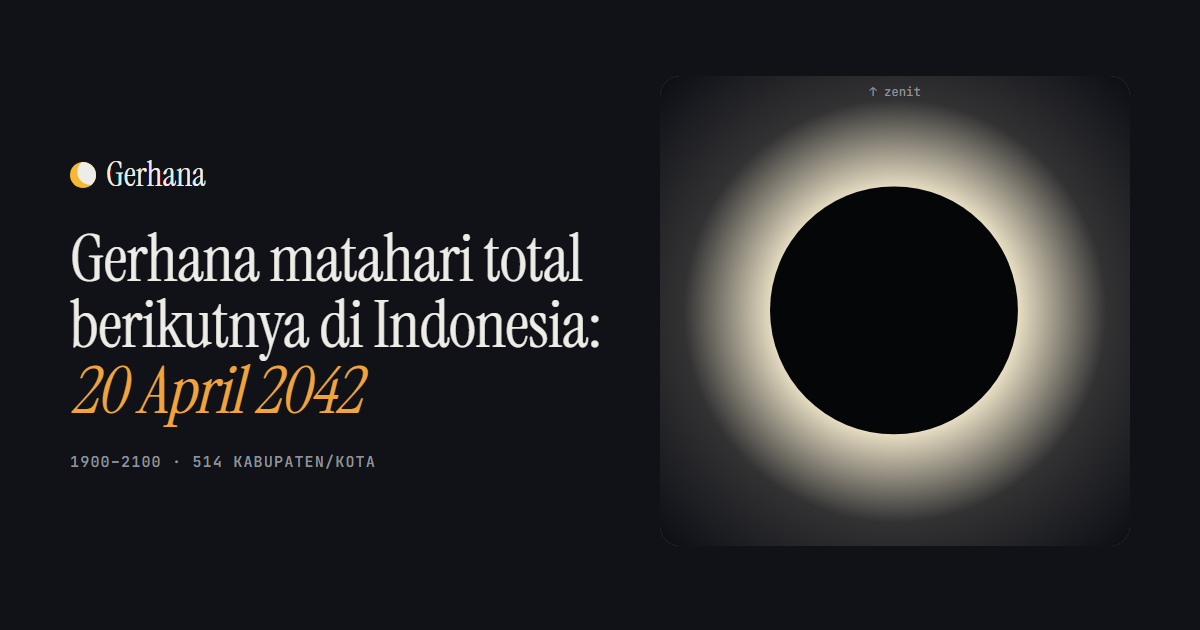
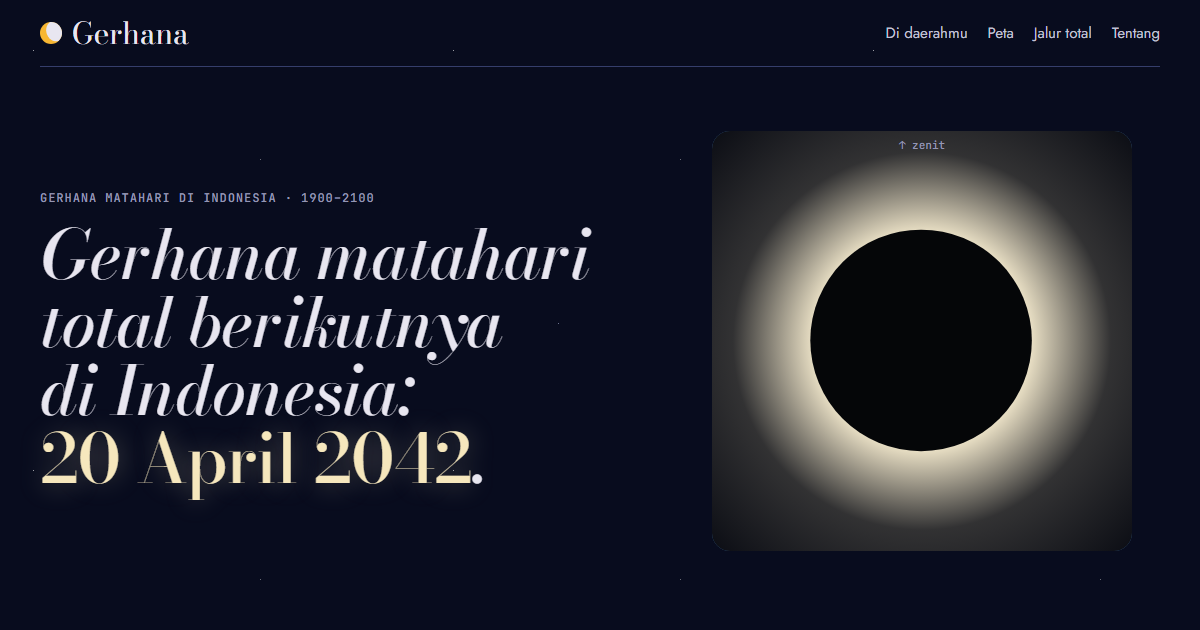
Tampilan baru: almanak langit malam

diff --git a/src/gaya.css b/src/gaya.css
@@ -1,61 +1,35 @@
 :root {
-  color-scheme: light;
-  --kertas: #f5f3ee;
-  --kertas-2: #ebe8e0;
-  --tinta: #15161c;
-  --tinta-2: #44464f;
-  --samar: #686a72;
-  --garis: #dcd8cf;
-  --garis-kuat: #b9b5ab;
-  --aksen: #a64f0b;
-  --sorot: #2a5bd7;
-  /* peta: sebagian per 20% (satu rona biru), cincin, total */
-  --k0: #e2ded5;
-  --k1: #b7d3f6;
-  --k2: #86b6ef;
-  --k3: #5598e7;
-  --k4: #2a78d6;
-  --k5: #1c5cab;
-  --cincin: #e08a1e;
-  --total: #15161c;
-  --sebagian: #2a78d6;
+  /* almanak langit malam: biru pekat, korona keemasan */
+  color-scheme: dark;
+  --kertas: #080c1e;
+  --kertas-2: #11173a;
+  --tinta: #e8e6f0;
+  --tinta-2: #c2c3d6;
+  --samar: #9496b3;
+  --garis: #1e2547;
+  --garis-kuat: #353e6b;
+  --aksen: #f6e7bd;
+  --sorot: #8fb0ff;
+  /* peta: sebagian per 20% (satu rona biru, divalidasi ordinal di atas --k0), cincin, total */
+  --k0: #1c2340;
+  --k1: #2a62b8;
+  --k2: #3b7fd9;
+  --k3: #5f9df0;
+  --k4: #8dbcf6;
+  --k5: #bdd8fa;
+  --cincin: #f0a43a;
+  --total: #fff4d6;
+  --sebagian: #5f9df0;
   /* piringan */
-  --langit: #9ec4ea;
-  --langit-gelap: #0b1430;
+  --langit: #3f6d9e;
+  --langit-gelap: #05070f;
   --matahari: #f7b733;
-  --bulan: #3a3d4a;
+  --bulan: #191b22;
   --korona: #fff4d6;
-  --tanah: #4a5a43;
-  --judul: "Instrument Serif", Georgia, serif;
-  --huruf: "Inter Tight Variable", system-ui, sans-serif;
+  --tanah: #1f271d;
+  --judul: "Bodoni Moda Variable", Didot, Georgia, serif;
+  --huruf: "Jost Variable", system-ui, sans-serif;
   --mono: "JetBrains Mono Variable", ui-monospace, monospace;
-}
-@media (prefers-color-scheme: dark) {
-  :root {
-    color-scheme: dark;
-    --kertas: #101217;
-    --kertas-2: #1a1d24;
-    --tinta: #eeece6;
-    --tinta-2: #c3c5cc;
-    --samar: #8f929b;
-    --garis: #262a33;
-    --garis-kuat: #3a3f4a;
-    --aksen: #f0a43a;
-    --sorot: #8fb0ff;
-    --k0: #2a2e37;
-    --k1: #184f95;
-    --k2: #256abf;
-    --k3: #3987e5;
-    --k4: #6da7ec;
-    --k5: #9ec5f4;
-    --cincin: #f0a43a;
-    --total: #f6f1e4;
-    --sebagian: #6da7ec;
-    --langit: #3f6d9e;
-    --langit-gelap: #05070f;
-    --bulan: #191b22;
-    --tanah: #1f271d;
-  }
 }
 
 *,
@@ -65,9 +39,15 @@
 }
 body {
   margin: 0;
-  background: var(--kertas);
   color: var(--tinta);
   font: 400 17px/1.6 var(--huruf);
+  /* bintang tipis di langit halaman */
+  background:
+    radial-gradient(1px 1px at 8% 12%, rgb(255 255 255 / 0.6) 50%, transparent 51%) 0 0 / 420px 420px,
+    radial-gradient(1px 1px at 62% 38%, rgb(255 255 255 / 0.4) 50%, transparent 51%) 0 0 / 420px 420px,
+    radial-gradient(1.2px 1.2px at 33% 77%, rgb(207 216 255 / 0.5) 50%, transparent 51%) 0 0 / 420px 420px,
+    radial-gradient(1px 1px at 88% 64%, rgb(255 255 255 / 0.35) 50%, transparent 51%) 0 0 / 300px 300px,
+    var(--kertas);
 }
 a {
   color: inherit;
@@ -96,8 +76,10 @@ select {
 h1,
 h2 {
   font-family: var(--judul);
-  font-weight: 400;
+  font-weight: 500;
+  font-style: italic;
   letter-spacing: -0.01em;
+  text-wrap: balance;
 }
 h1 {
   margin: 14px 0 0;
@@ -111,7 +93,9 @@ h2 {
 }
 h1 em,
 h2 em {
+  font-style: normal;
   color: var(--aksen);
+  text-shadow: 0 0 26px rgb(246 231 189 / 0.35);
 }
 
 .kepala,

diff --git a/index.html b/index.html
@@ -17,8 +17,7 @@
     <meta property="og:image:height" content="630" />
     <meta name="twitter:card" content="summary_large_image" />
     <link rel="canonical" href="https://gerhana.raffstw.my.id/" />
-    <meta name="theme-color" content="#f5f3ee" media="(prefers-color-scheme: light)" />
-    <meta name="theme-color" content="#101217" media="(prefers-color-scheme: dark)" />
+    <meta name="theme-color" content="#080c1e" />
     <link rel="icon" href="/ikon.svg" type="image/svg+xml" />
   </head>
   <body>

diff --git a/src/main.ts b/src/main.ts
@@ -1,5 +1,6 @@
-import "@fontsource/instrument-serif";
-import "@fontsource-variable/inter-tight";
+import "@fontsource-variable/bodoni-moda/opsz.css";
+import "@fontsource-variable/bodoni-moda/opsz-italic.css";
+import "@fontsource-variable/jost";
 import "@fontsource-variable/jetbrains-mono";
 import "./gaya.css";
 import {
